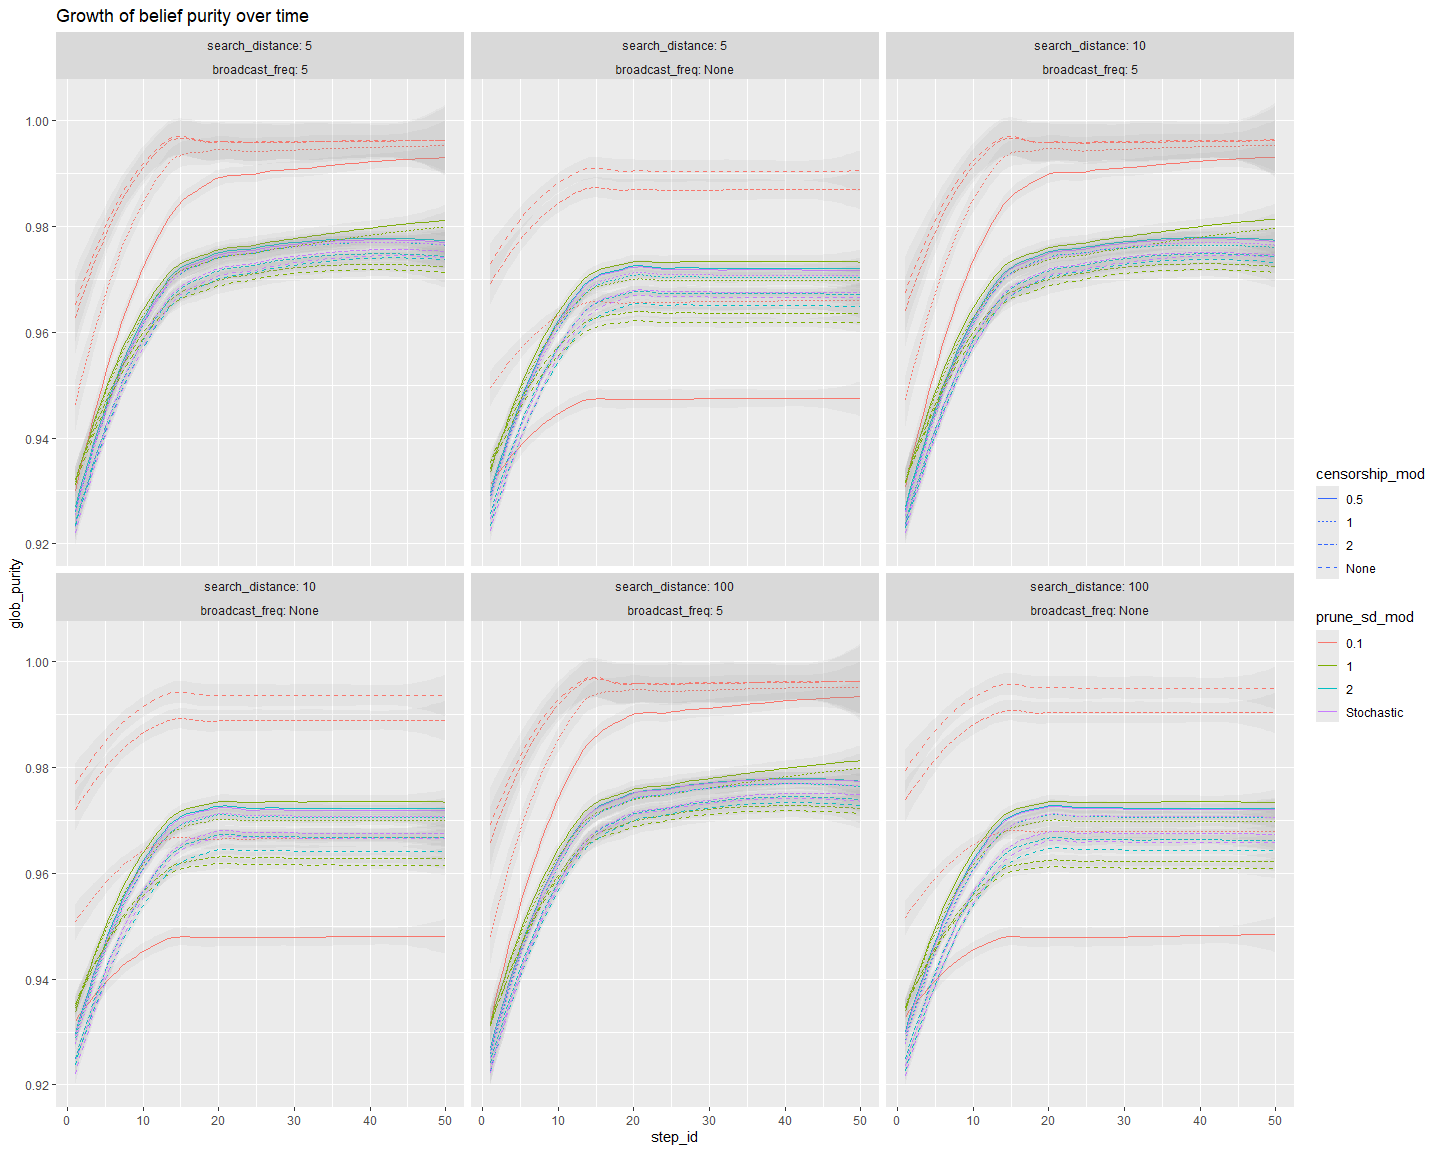
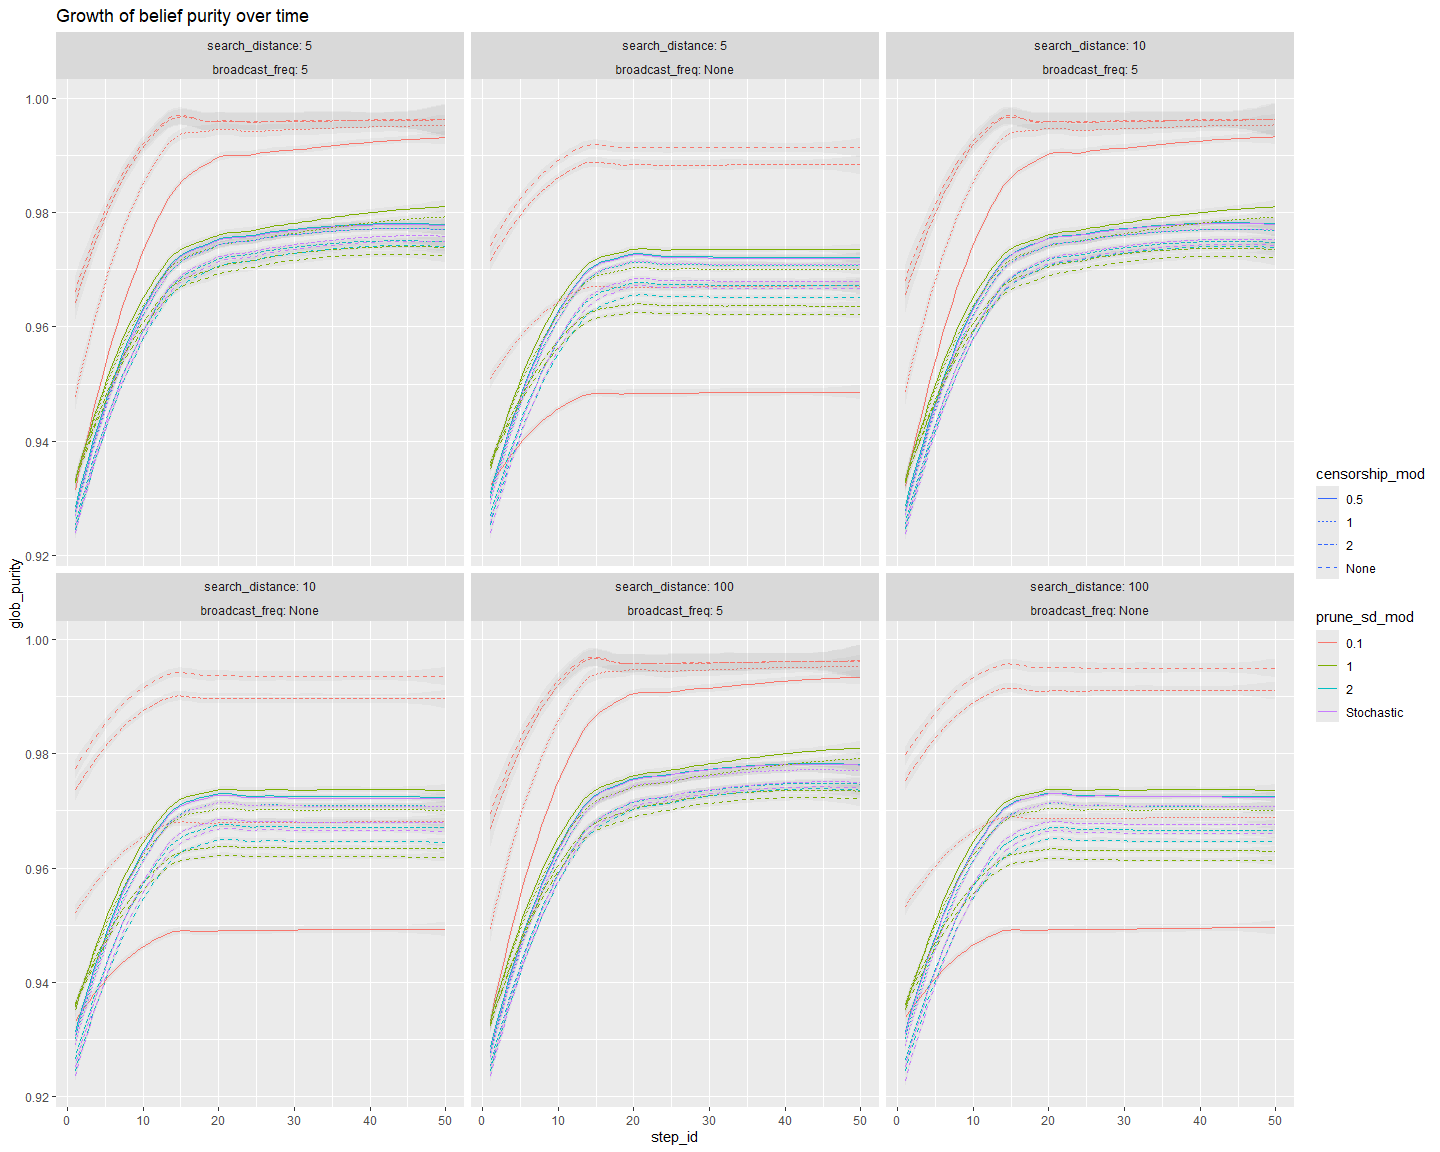
Now with 10 runs!

diff --git a/echoPlots.md b/echoPlots.md
@@ -9,7 +9,7 @@ Peter Thramkrongart and Asger Lakkenborg
 setwd("D:\\Users\\thram_000\\OneDrive\\cog data\\SocKult\\ABM_SocKult")
 pacman::p_load(rJava, RNetLogo, tidyverse, parallel)
 
-ABM_Data <- read_csv("D:\\Users\\thram_000\\OneDrive\\cog data\\SocKult\\ABM_SocKult\\ABM_Data2.csv")
+ABM_Data <- read_csv("D:\\Users\\thram_000\\OneDrive\\cog data\\SocKult\\ABM_SocKult\\ABM_Data10.csv")
 ```
 
     ## Warning: Missing column names filled in: 'X1' [1]
@@ -27,7 +27,7 @@ ABM_Data <- read_csv("D:\\Users\\thram_000\\OneDrive\\cog data\\SocKult\\ABM_Soc
     ## See spec(...) for full column specifications.
 
 ``` r
-distributionData <- read_csv("DistributionData2.csv")
+distributionData <- read_csv("DistributionData10.csv")
 ```
 
     ## Warning: Missing column names filled in: 'X1' [1]
@@ -156,7 +156,7 @@ ABM_Data %>%
 ![](echoPlots_files/figure-gfm/unnamed-chunk-4-1.png)<!-- -->
 
 ``` r
-distributionData %>% filter(step_id == 40, numlearners == 1000, censorship_mod == "None") %>%
+distributionData %>% filter(step_id == 50, numlearners == 1000, censorship_mod == "None") %>%
   ggplot(aes(`prior-val`,
              color = prune_sd_mod)) + geom_density() + facet_wrap(search_distance ~
                                                                                broadcast_freq, labeller = label_both) + ggtitle("Distribution of beliefs")
@@ -175,7 +175,7 @@ distributionData %>% filter(step_id == "1", numlearners == 1000) %>%  ggplot(aes
 ![](echoPlots_files/figure-gfm/unnamed-chunk-6-1.png)<!-- -->
 
 ``` r
-distributionData %>% filter(numlearners == 1000, search_distance == 10, step_id == 40) %>%  ggplot(aes(
+distributionData %>% filter(numlearners == 1000, search_distance == 10, step_id == 50) %>%  ggplot(aes(
   `prior-val`,
   color = censorship_mod,
   linetype = censorship_mod
